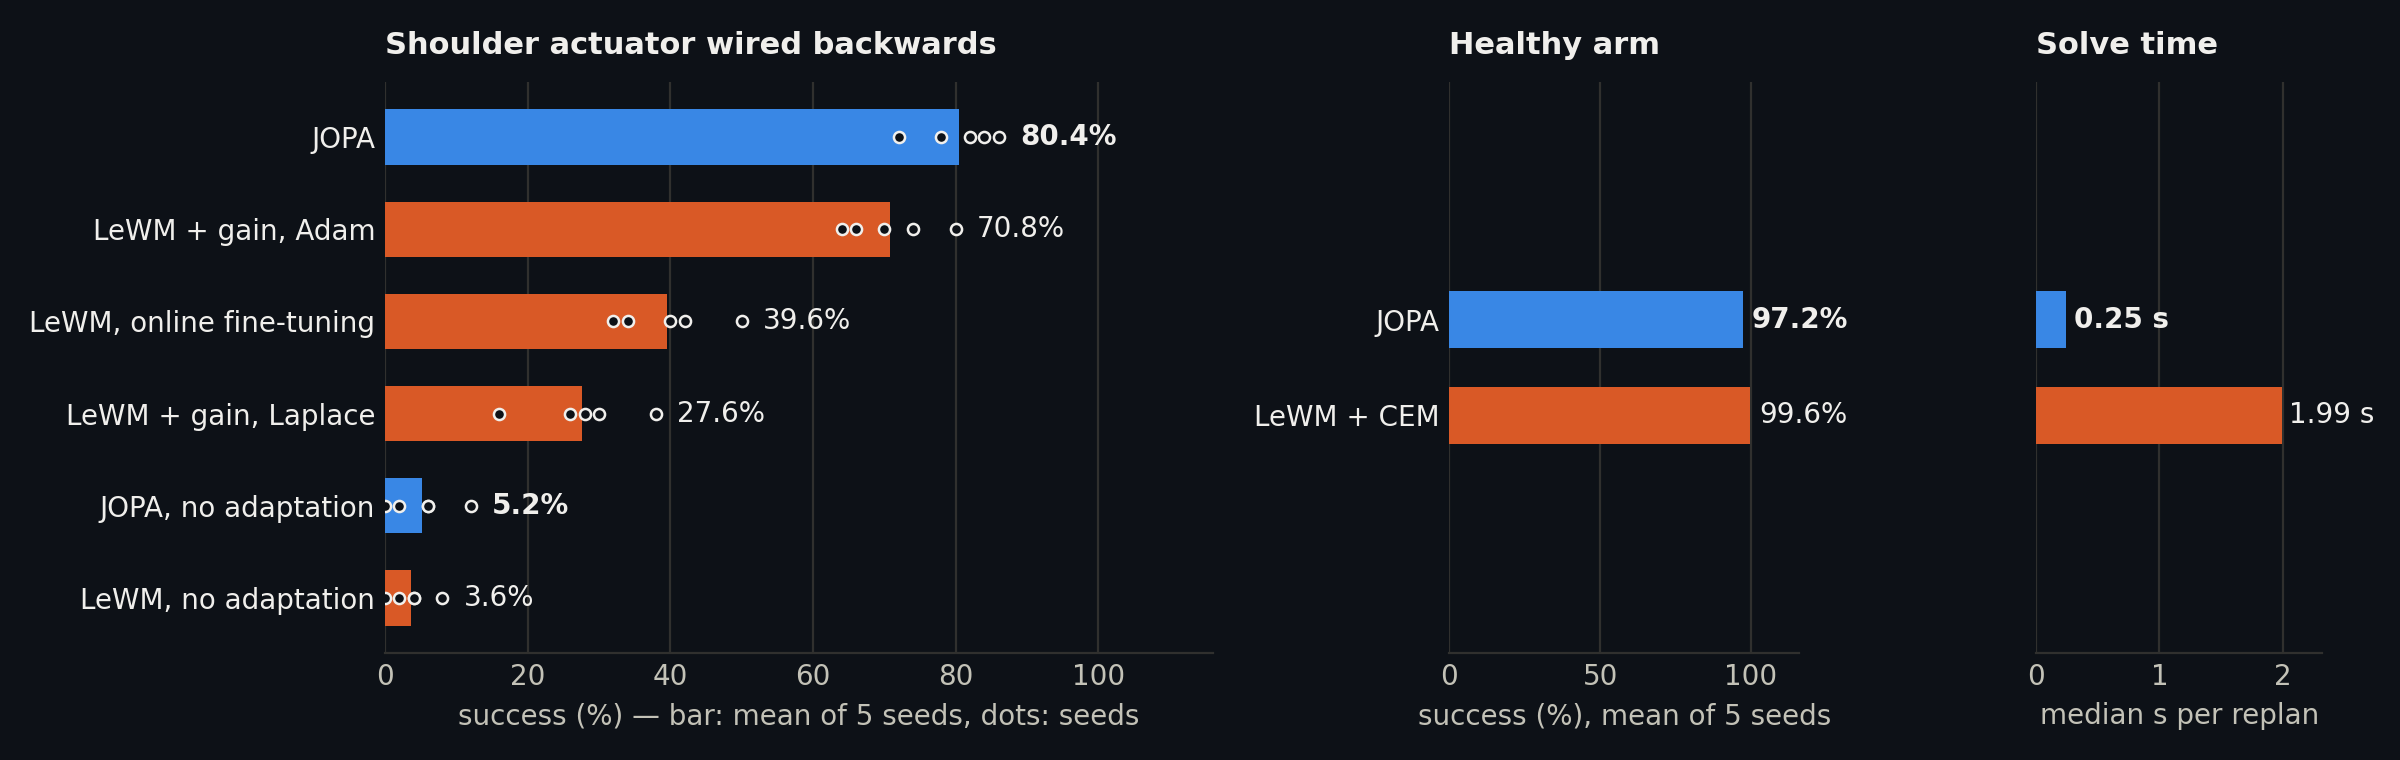
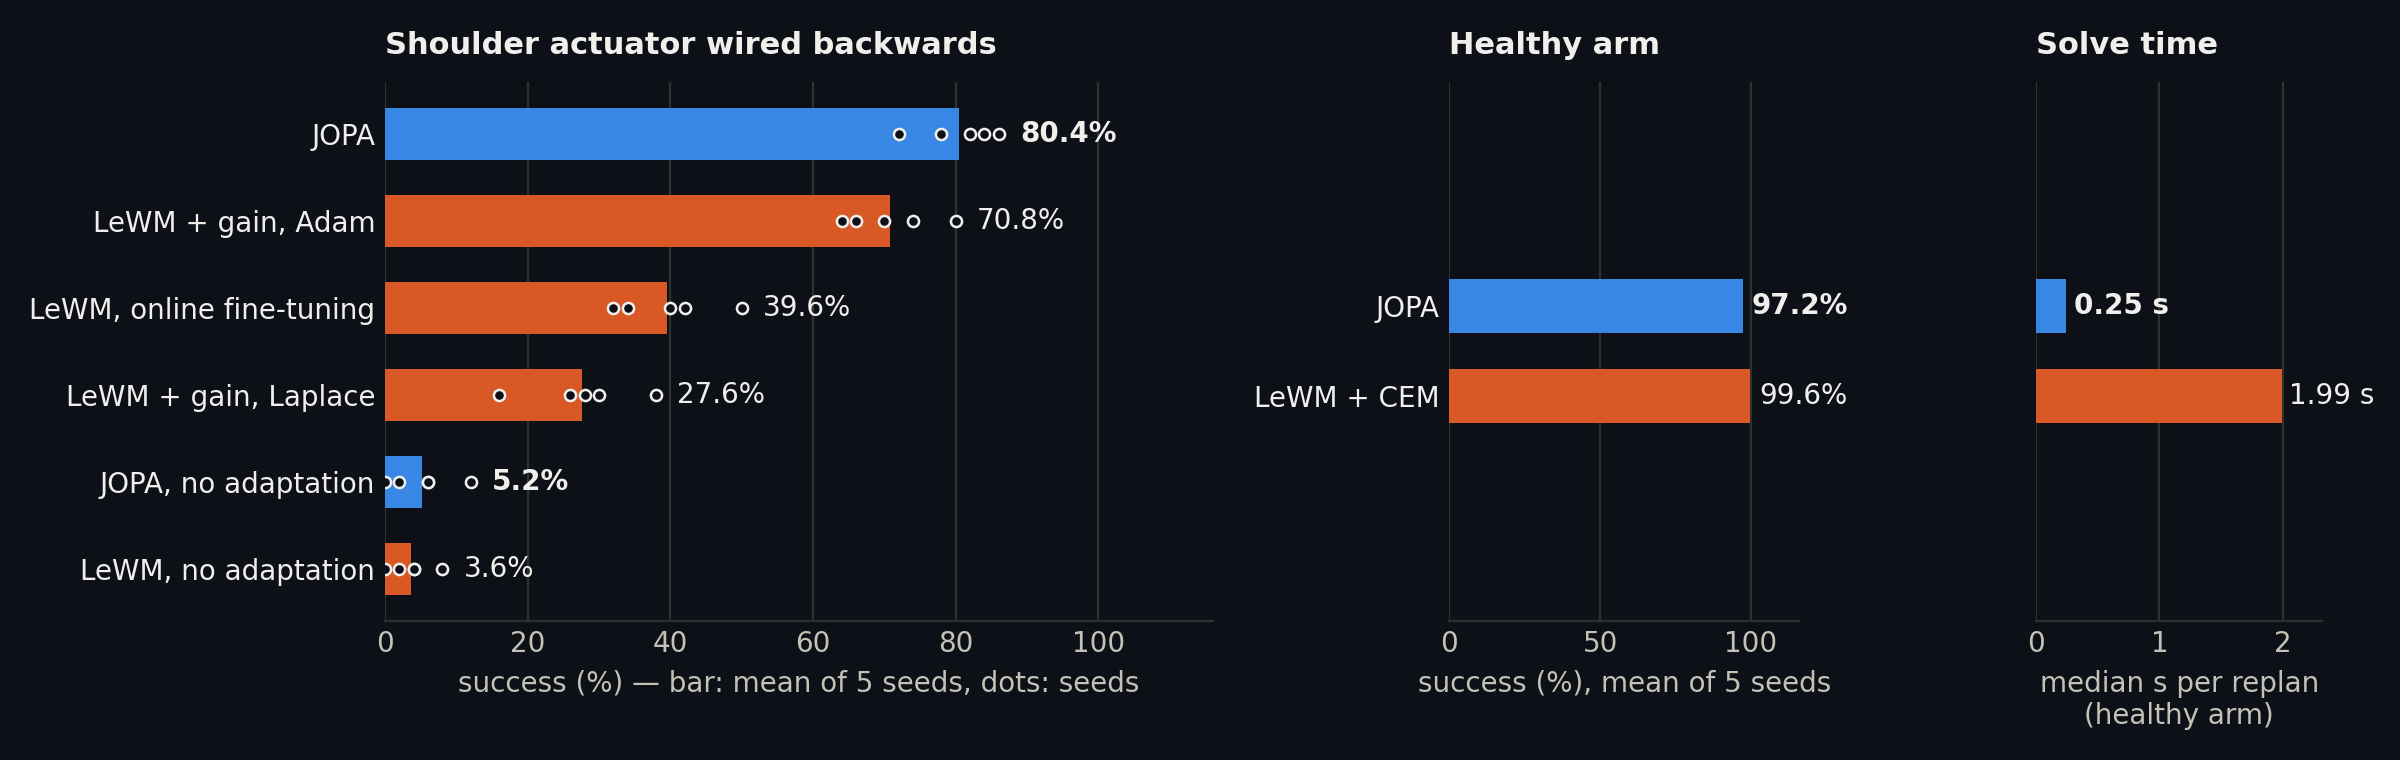
Address review: NeuralLinear fitting path, healthy-arm solve time, gradient-trained components

diff --git a/benchmarks/swm_reacher/report.py b/benchmarks/swm_reacher/report.py
@@ -120,7 +120,7 @@ def figure(results, out: Path):
         t.set_xticks([0, 1, 2])
         t.set_yticks(range(len(nominal)), [""] * len(nominal))
         t.set_title("Solve time", **title)
-        t.set_xlabel("median s per replan")
+        t.set_xlabel("median s per replan\n(healthy arm)")
 
         fig.tight_layout(w_pad=1.5)
         fig.savefig(out / f"lewm_reacher_{theme}.png", dpi=200, facecolor=c["surface"])

diff --git a/README.md b/README.md
@@ -59,10 +59,11 @@ transition, and `JointModel` answers one of four questions: `learn`, `smooth`,
 
 **Offline.** Train a sensor by gradient descent — with the `NeuralLinear`
 network, the only gradients in the system — and encode the data once. Then fit
-the transition posterior by message passing (`q(A,B,W)` for `LearnedLinear`,
-the matrix-normal last layer for `NeuralLinear`): each encoded observation
+`q(A,B,W)` of a `LearnedLinear` by message passing: each encoded observation
 becomes a message, forward–backward smooths the chain, and the accumulated
-messages update the parameter posteriors.
+messages update the parameter posteriors. A `NeuralLinear` instead trains its
+features on rollouts and conditions its matrix-normal last layer directly on
+the encoded transitions (`fit_neural_linear`).
 
 **Online.** Every step is inference on the same graph: the **state** is
 filtered, the **parameters** are updated by conjugate VMP, and the **actions**
@@ -84,7 +85,7 @@ wire the shoulder actuator backwards from the first step.
 <p align="center">
   <picture>
     <source media="(prefers-color-scheme: dark)" srcset="assets/lewm_reacher_dark.png">
-    <img src="assets/lewm_reacher_light.png" width="100%" alt="Reversed shoulder: JOPA 80.4%, LeWM + gain (Adam) 70.8%, LeWM fine-tuning 39.6%, LeWM + gain (Laplace) 27.6%, both unadapted models under 7%. Healthy arm: JOPA 97.2%, LeWM 99.6%. Solve time per replan: JOPA 0.25 s, LeWM 1.99 s.">
+    <img src="assets/lewm_reacher_light.png" width="100%" alt="Reversed shoulder: JOPA 80.4%, LeWM + gain (Adam) 70.8%, LeWM fine-tuning 39.6%, LeWM + gain (Laplace) 27.6%, both unadapted models under 7%. Healthy arm: JOPA 97.2%, LeWM 99.6%. Solve time per replan, healthy arm: JOPA 0.25 s, LeWM 1.99 s.">
   </picture>
 </p>
 

diff --git a/docs/index.md b/docs/index.md
@@ -136,8 +136,9 @@ The rules themselves are not new. They were derived and integrated into
   and planning are each `q(·)` over a different subset of the same graph — no
   reward shaping, policy networks, or replay-buffer retraining.
 - **Linear-Gaussian latent dynamics** with a conjugate posterior; learned
-  features where a linear model cannot predict (`NeuralLinear`). The encoder and
-  the features are the only gradient-trained components.
+  features where a linear model cannot predict (`NeuralLinear`). The observation
+  model (the VAE's encoder and decoder) and the `NeuralLinear` network are the
+  only gradient-trained components.
 - **Planning is exact inference.** With linear dynamics the joint over states
   and actions is Gaussian, so the action posterior is one elimination sweep;
   nonlinear dynamics and actuator limits are relinearized and projected
